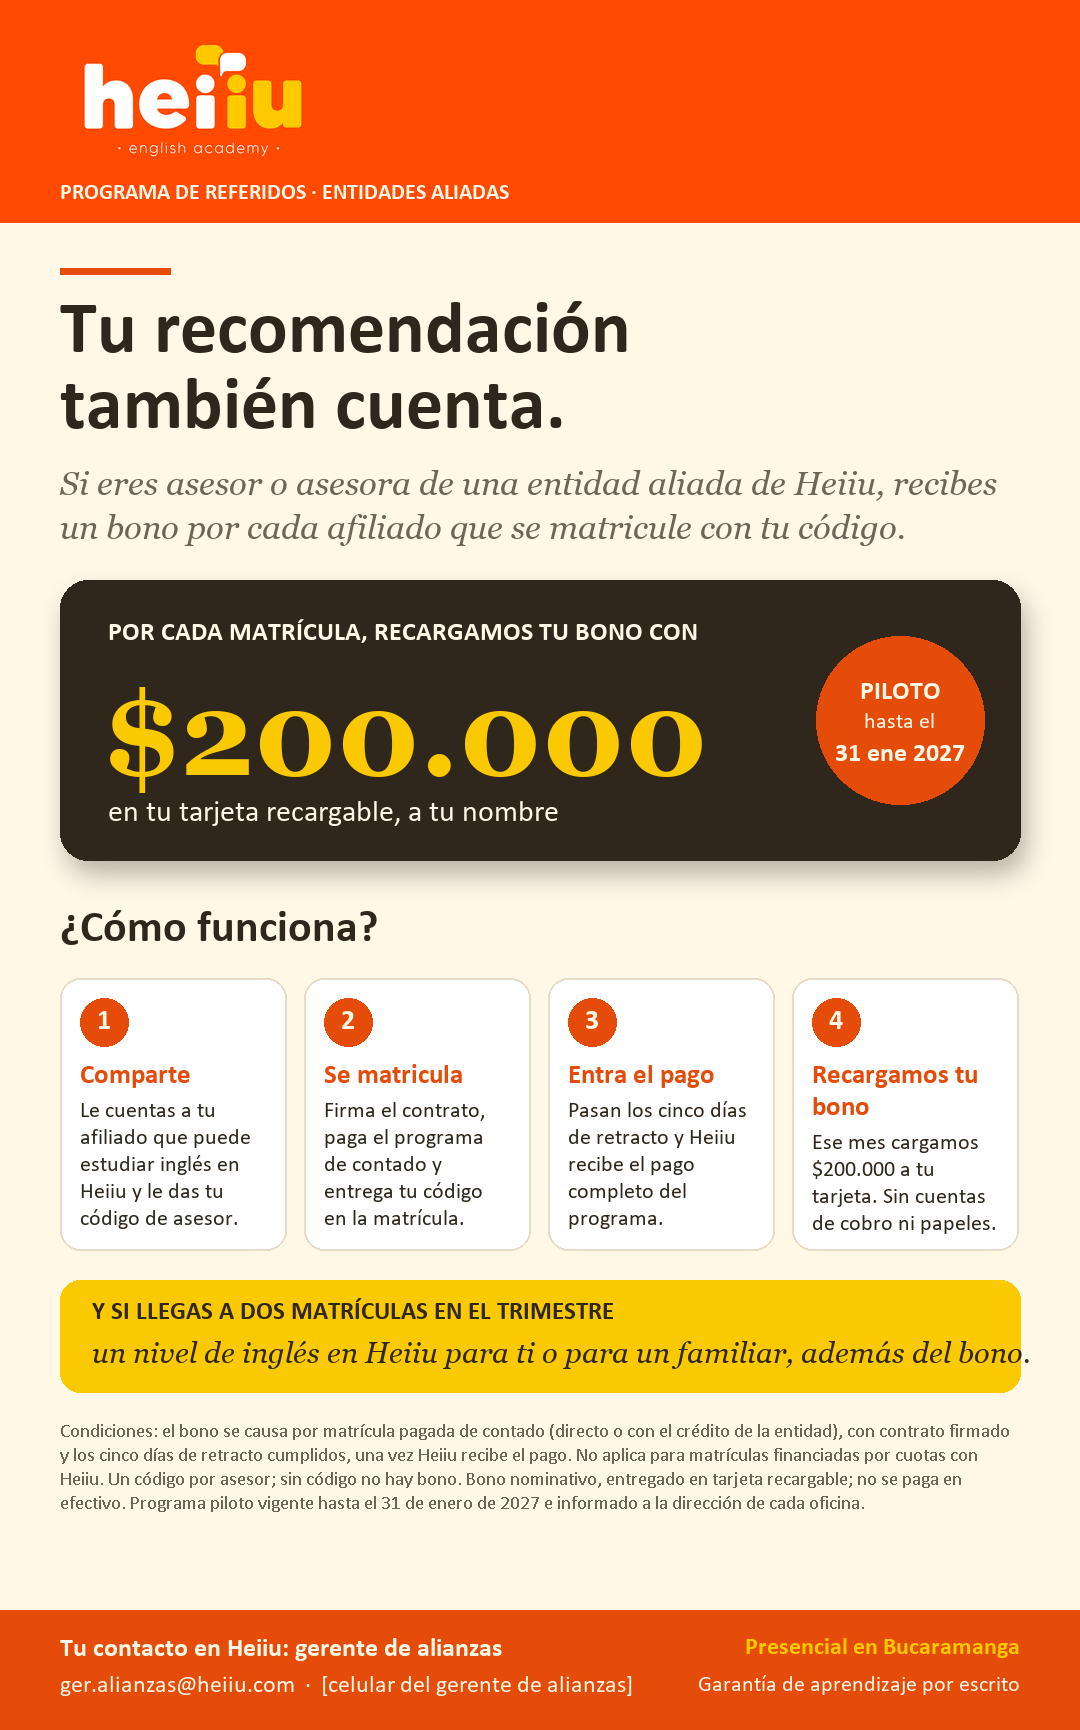
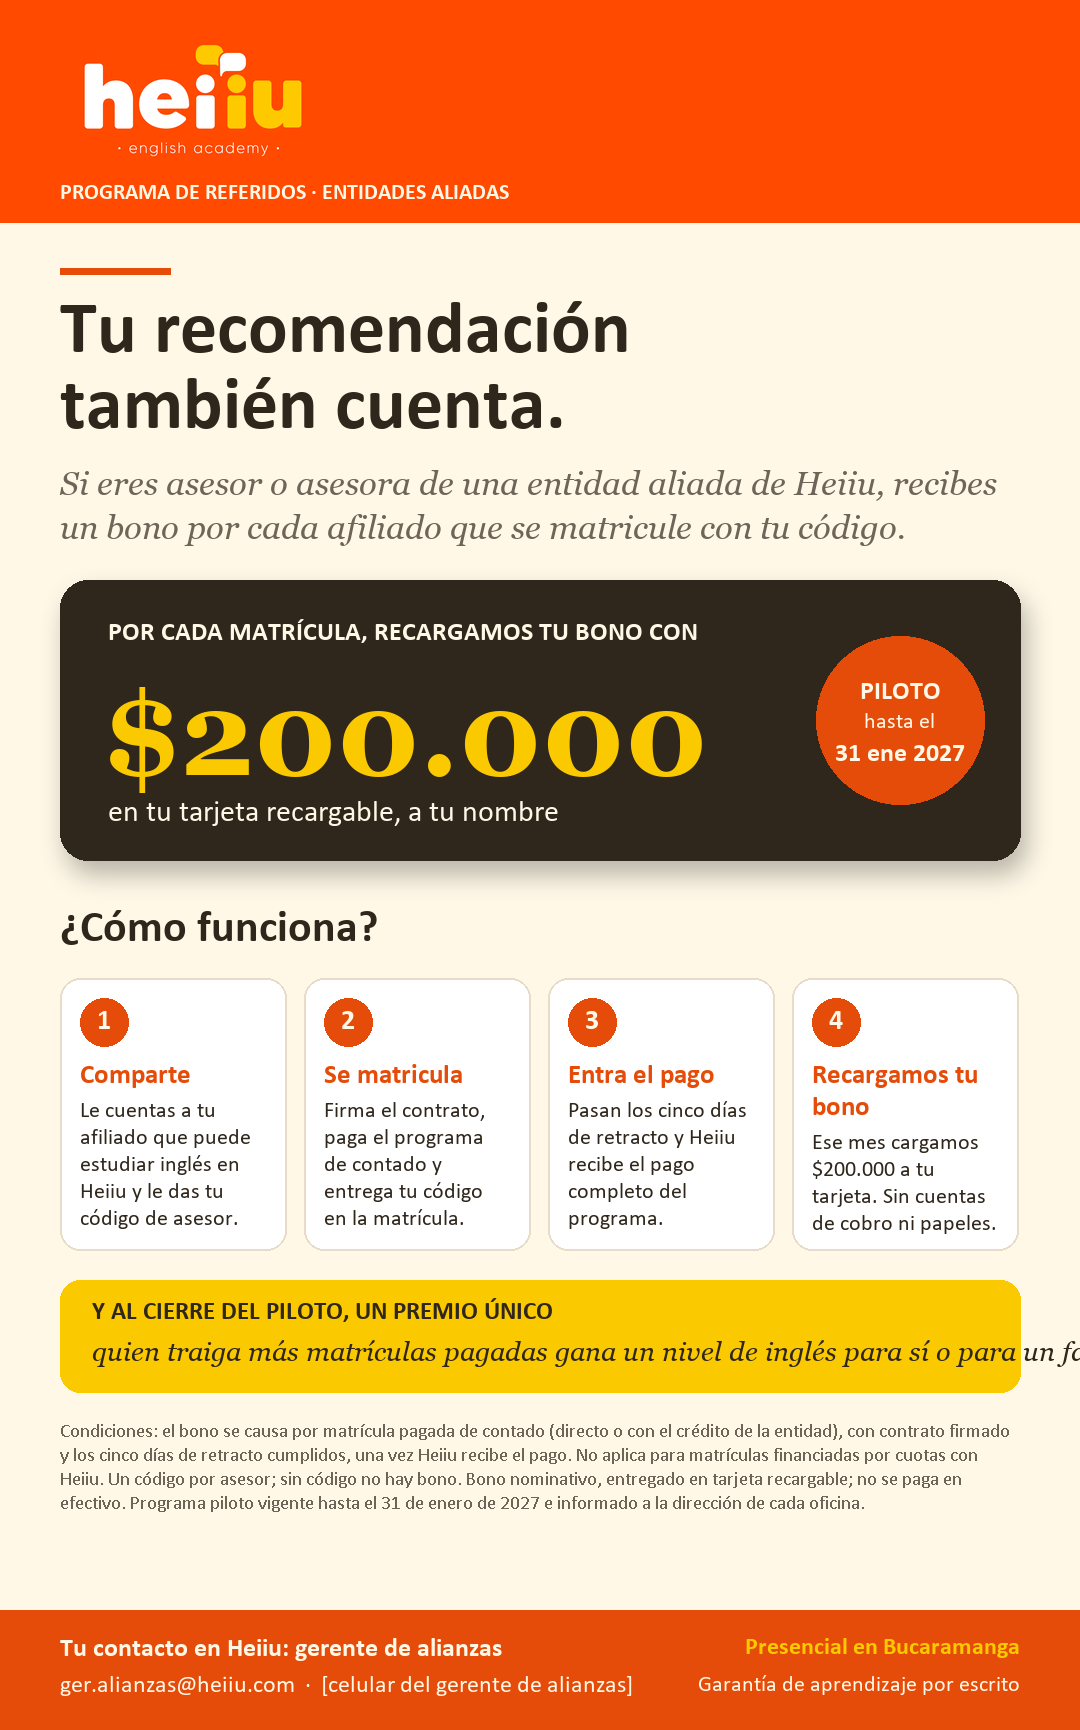
Pieza referidos asesores: el nivel de ingles pasa a premio unico al cierre del piloto (un cupo), en vez de dos matriculas por trimestre

Changed region(s): [[0.0917, 0.7491, 0.6111, 0.8116], [0.6417, 0.7803, 0.8556, 0.8116], [0.8861, 0.7803, 0.9472, 0.8116]]

diff --git a/generadores/comercial/gen_pieza_referidos_asesoras.py b/generadores/comercial/gen_pieza_referidos_asesoras.py
@@ -97,10 +97,10 @@ for i, (tit, sub) in enumerate(pasos):
     parrafo(d, cx0 + 20, yy, sub, font('calibri.ttf', 22), OSC, cw - 40, lh=27)
 y += ch + 30
 
-# ---- caja amarilla: programa de cupos (opcional, si se aprueba)
+# ---- caja amarilla: premio unico al cierre del piloto (un cupo, costo acotado)
 d.rounded_rectangle([60, y, W - 60, y + 112], radius=20, fill=AMAR)
-d.text((92, y + 20), 'Y SI LLEGAS A DOS MATRÍCULAS EN EL TRIMESTRE', font=font('calibrib.ttf', 25), fill=OSC)
-d.text((92, y + 56), 'un nivel de inglés en Heiiu para ti o para un familiar, además del bono.', font=font('georgiai.ttf', 29), fill=OSC)
+d.text((92, y + 20), 'Y AL CIERRE DEL PILOTO, UN PREMIO ÚNICO', font=font('calibrib.ttf', 25), fill=OSC)
+d.text((92, y + 56), 'quien traiga más matrículas pagadas gana un nivel de inglés para sí o para un familiar.', font=font('georgiai.ttf', 27), fill=OSC)
 y += 112 + 30
 
 # ---- condiciones en letra pequeña
